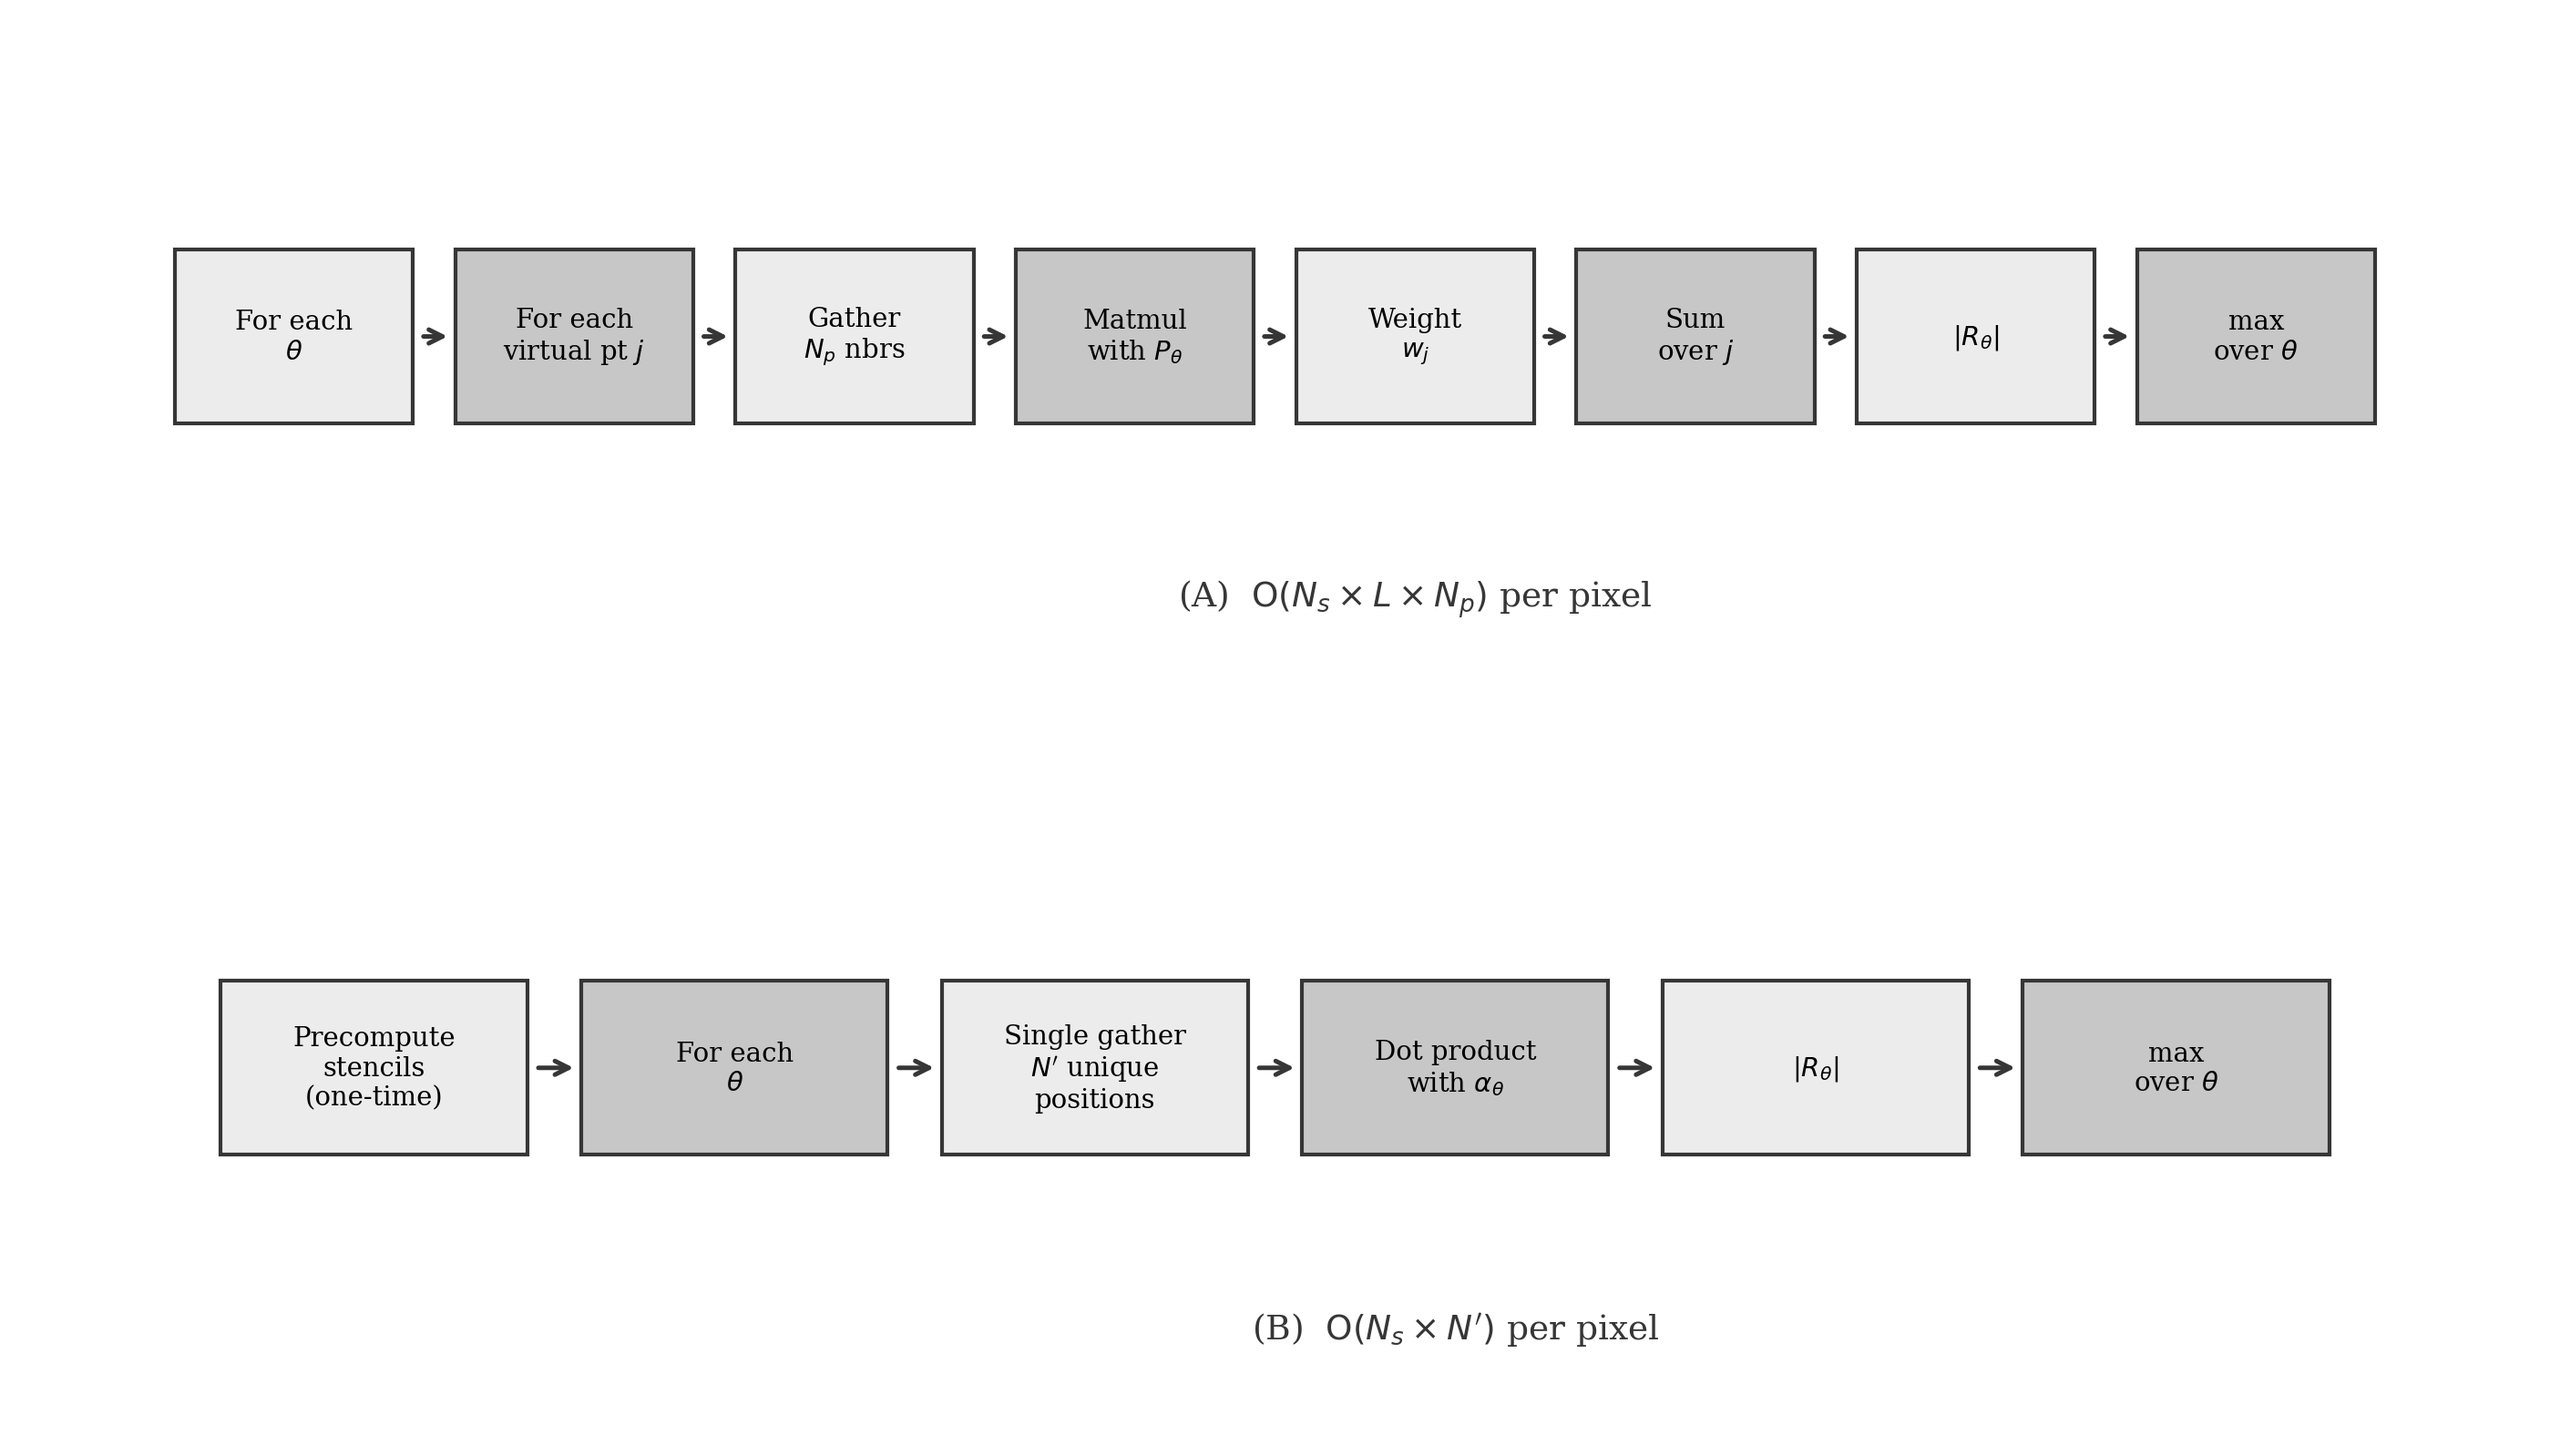
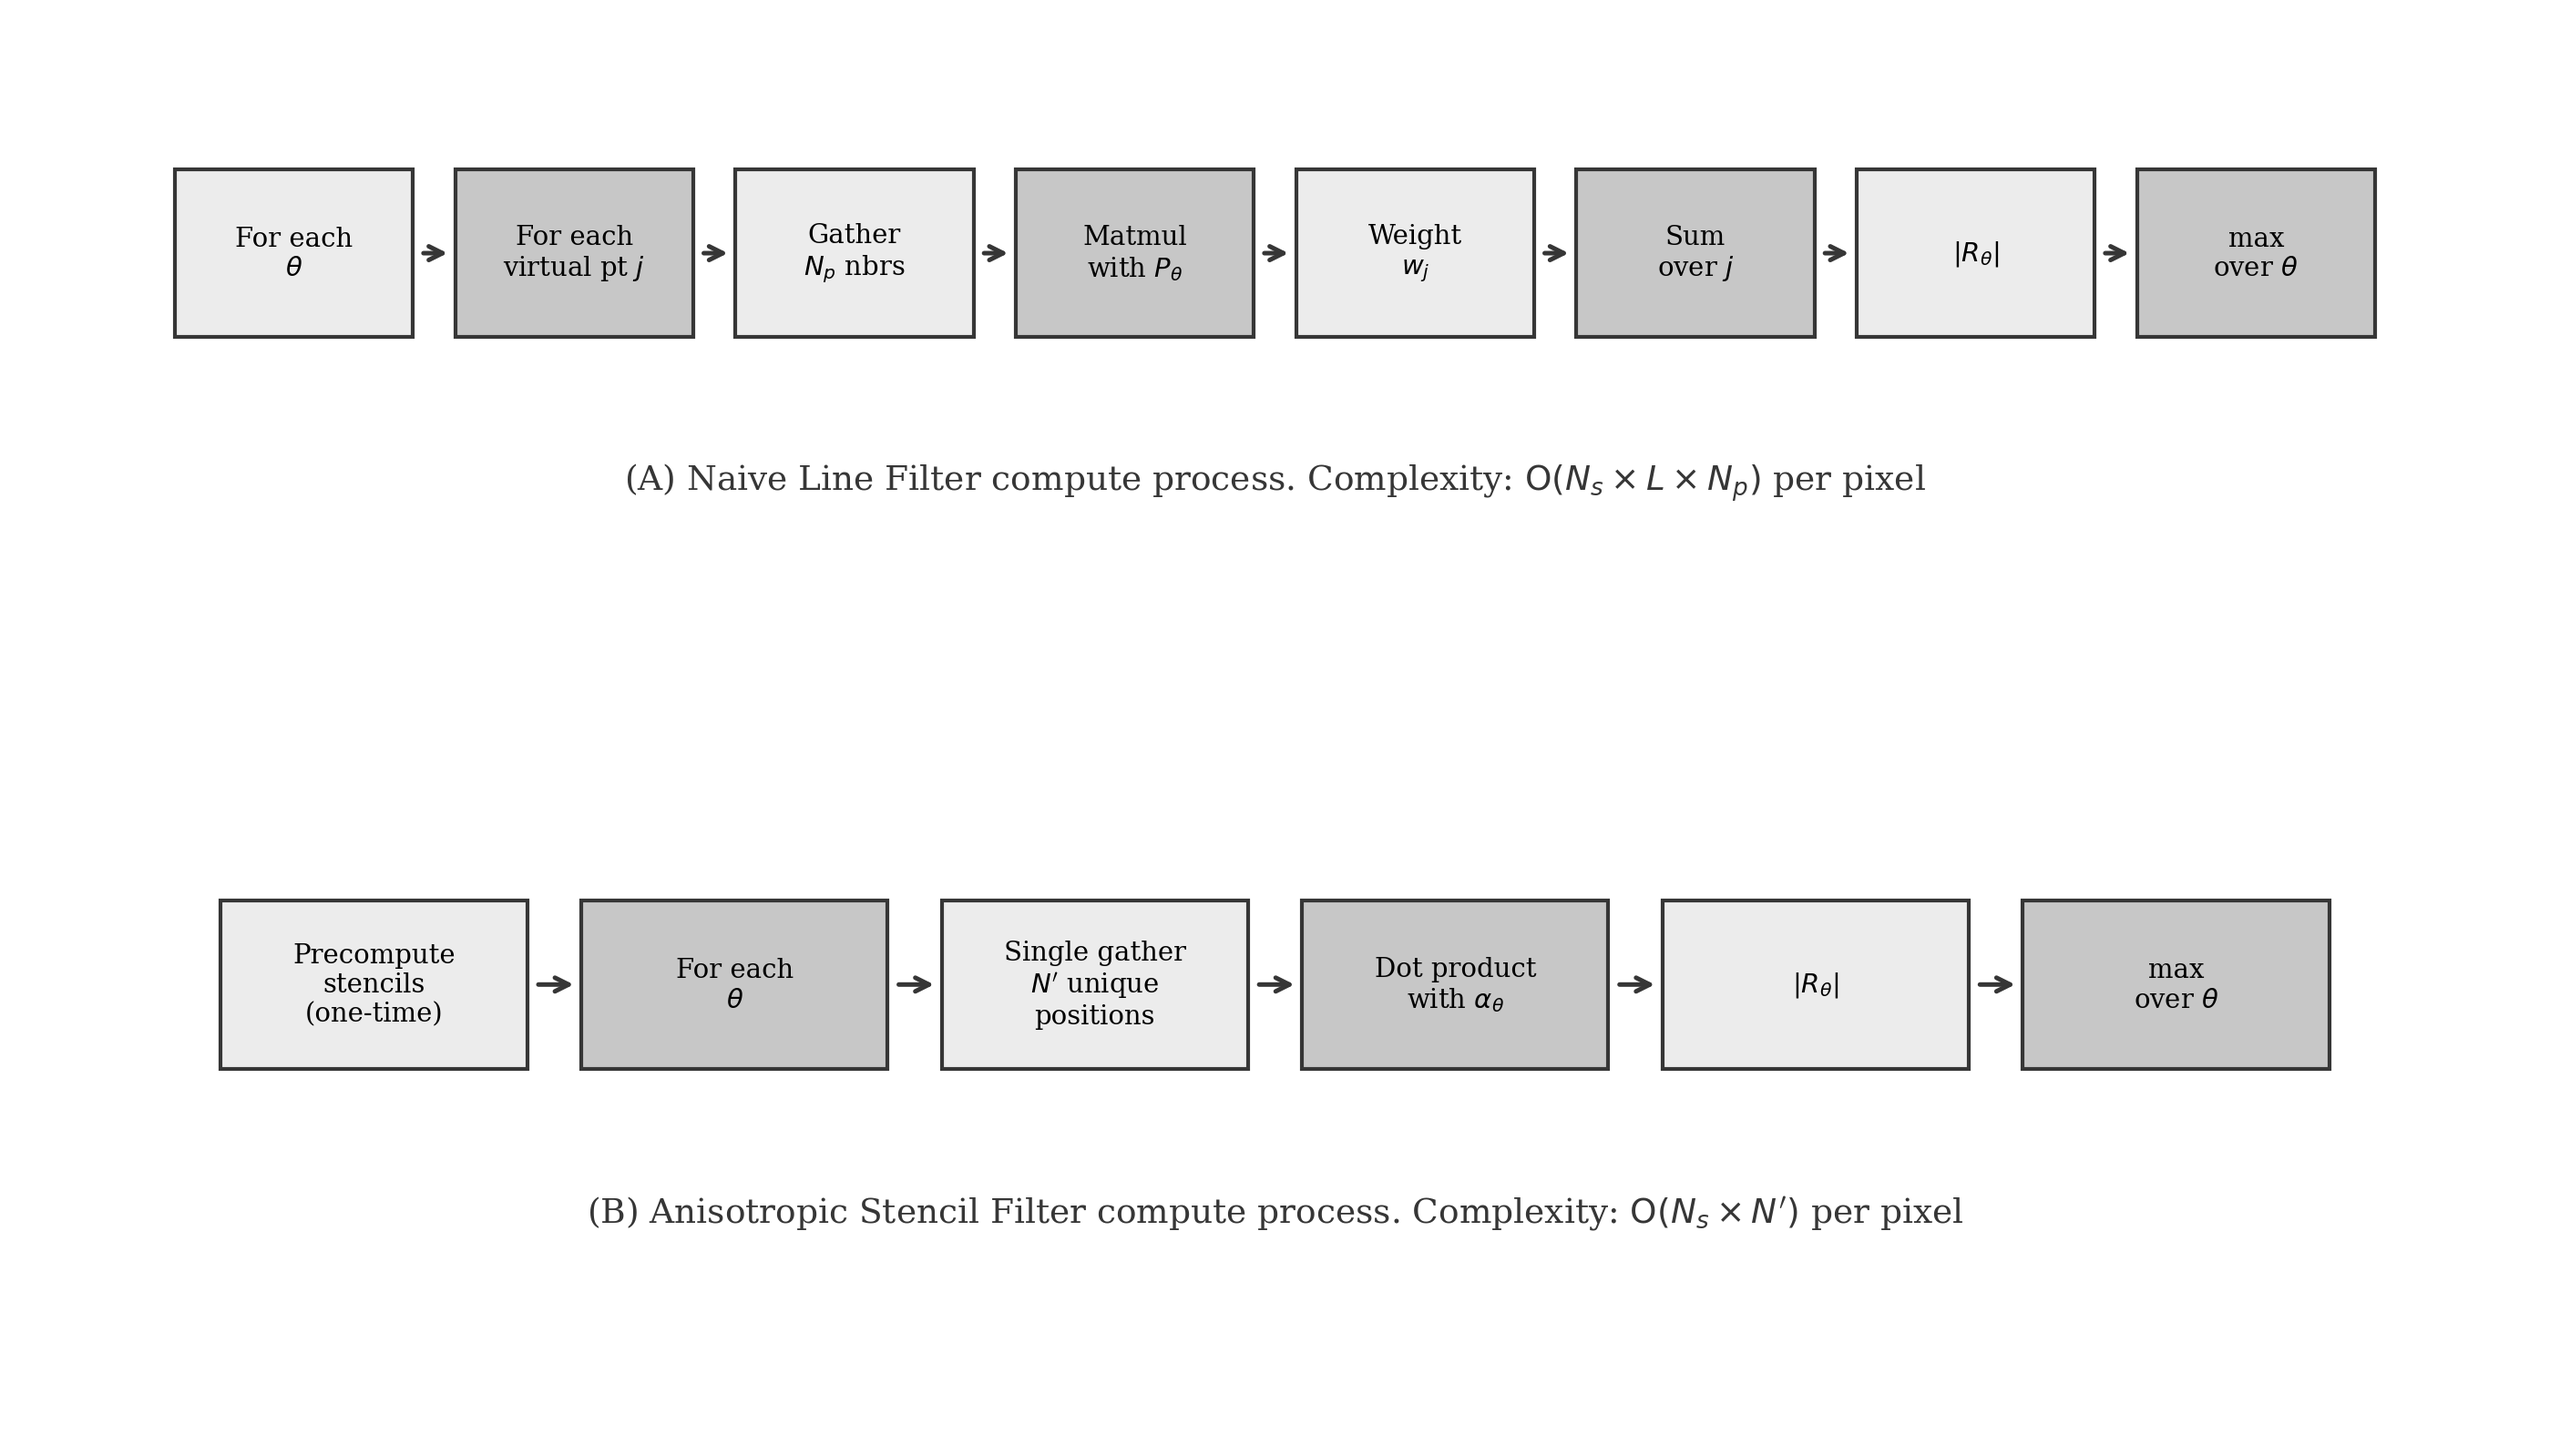
Add descriptive captions with complexity to fig2 panels

diff --git a/scripts/generate_filter_visuals.py b/scripts/generate_filter_visuals.py
@@ -210,9 +210,9 @@ def figure2():
 
     fig, axes = plt.subplots(2, 1, figsize=(9.5, 5.5))
 
-    def _draw_flow(ax, boxes, complexity, panel_label):
+    def _draw_flow(ax, boxes, caption, complexity, panel_label):
         ax.set_xlim(-0.5, len(boxes) + 0.5)
-        ax.set_ylim(-1.0, 1.8)
+        ax.set_ylim(-1.4, 1.5)
         ax.set_aspect("auto")
         ax.set_xticks([])
         ax.set_yticks([])
@@ -220,6 +220,7 @@ def figure2():
             spine.set_visible(False)
         box_w, box_h = 0.85, 0.7
         y_center = 0.5
+        x_mid = len(boxes) / 2.0
         colors_cycle = ["#ECECEC", "#C7C7C7"]  # 10% Black, 30% Black
         for i, txt in enumerate(boxes):
             x = i + 0.5
@@ -235,9 +236,9 @@ def figure2():
                 ax.annotate("", xy=(x + box_w / 2 + 0.15, y_center),
                            xytext=(x + box_w / 2 + 0.01, y_center),
                            arrowprops=dict(arrowstyle="->", color="#363636", lw=1.2))
-        # Caption below: panel label + complexity
-        ax.text(len(boxes) / 2 + 0.5, -0.55,
-                f"({panel_label})  {complexity}",
+        # Caption below: (label) description. Complexity: ...
+        ax.text(x_mid, -0.45,
+                f"({panel_label}) {caption}. Complexity: {complexity}",
                 ha="center", va="center", fontsize=9, color="#363636")
 
     _draw_flow(axes[0],
@@ -245,6 +246,7 @@ def figure2():
                 "Gather\n$N_p$ nbrs", "Matmul\nwith $P_\\theta$",
                 "Weight\n$w_j$", "Sum\nover $j$", "$|R_\\theta|$",
                 "max\nover $\\theta$"],
+               "Naive Line Filter compute process",
                "$\\mathrm{O}(N_s \\times L \\times N_p)$ per pixel", "A")
 
     _draw_flow(axes[1],
@@ -252,6 +254,7 @@ def figure2():
                 "Single gather\n$N'$ unique\npositions",
                 "Dot product\nwith $\\alpha_\\theta$", "$|R_\\theta|$",
                 "max\nover $\\theta$"],
+               "Anisotropic Stencil Filter compute process",
                "$\\mathrm{O}(N_s \\times N')$ per pixel", "B")
 
     fig.tight_layout(h_pad=1.0)
